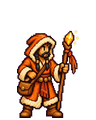
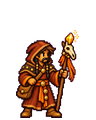
M7: civilization looks for the Kuriotates, Sidar, Lanun and Hippus
Their common units restyled, the centaur, centaur lancer and charger (one family with the
centaur archer) and the Lanun war tortoise; the Hippus adept re-rolled in rust-brown felt
(the first pick's orange robe with white fur trim read as Santa Claus). Plus the city sprites
accepted so far.

Claude-Session: https://claude.ai/code/session_0156wvnXMKUP5vCf2493q8yd

diff --git a/crates/ffh-play/assets/app/iso/sprites.js b/crates/ffh-play/assets/app/iso/sprites.js
@@ -396,7 +396,13 @@ export const SPRITES = {
   unit_great_person: { w: 96, h: 120, box: [12, 32, 84, 118] },
   unit_greater_werewolf: { w: 106, h: 120, box: [0, 4, 106, 118] },
   unit_griffon: { w: 96, h: 120, box: [1, 14, 95, 118] },
+  unit_grigori_adept: { w: 96, h: 120, box: [16, 30, 80, 118] },
+  unit_grigori_axeman: { w: 96, h: 120, box: [11, 32, 85, 118] },
+  unit_grigori_horseman: { w: 96, h: 120, box: [7, 18, 88, 118] },
   unit_grigori_medic: { w: 96, h: 120, box: [13, 32, 83, 118] },
+  unit_grigori_settler: { w: 96, h: 120, box: [14, 28, 81, 118] },
+  unit_grigori_warrior: { w: 96, h: 120, box: [10, 28, 86, 118] },
+  unit_grigori_worker: { w: 96, h: 120, box: [13, 36, 82, 118] },
   unit_gurid: { w: 111, h: 128, box: [0, 0, 111, 126] },
   unit_guybrush: { w: 96, h: 120, box: [5, 26, 91, 118] },
   unit_harlequin: { w: 96, h: 120, box: [9, 30, 86, 118] },
@@ -412,7 +418,7 @@ export const SPRITES = {
   unit_high_priest_of_the_veil: { w: 96, h: 120, box: [15, 22, 81, 118] },
   unit_high_priest_of_winter: { w: 96, h: 120, box: [9, 22, 88, 118] },
   unit_hill_giant: { w: 107, h: 134, box: [0, 0, 107, 132] },
-  unit_hippus_adept: { w: 96, h: 120, box: [17, 30, 79, 118] },
+  unit_hippus_adept: { w: 96, h: 120, box: [16, 30, 79, 118] },
   unit_hippus_axeman: { w: 96, h: 120, box: [14, 32, 82, 118] },
   unit_hippus_horseman: { w: 96, h: 120, box: [11, 18, 84, 118] },
   unit_hippus_settler: { w: 96, h: 120, box: [11, 28, 84, 118] },
